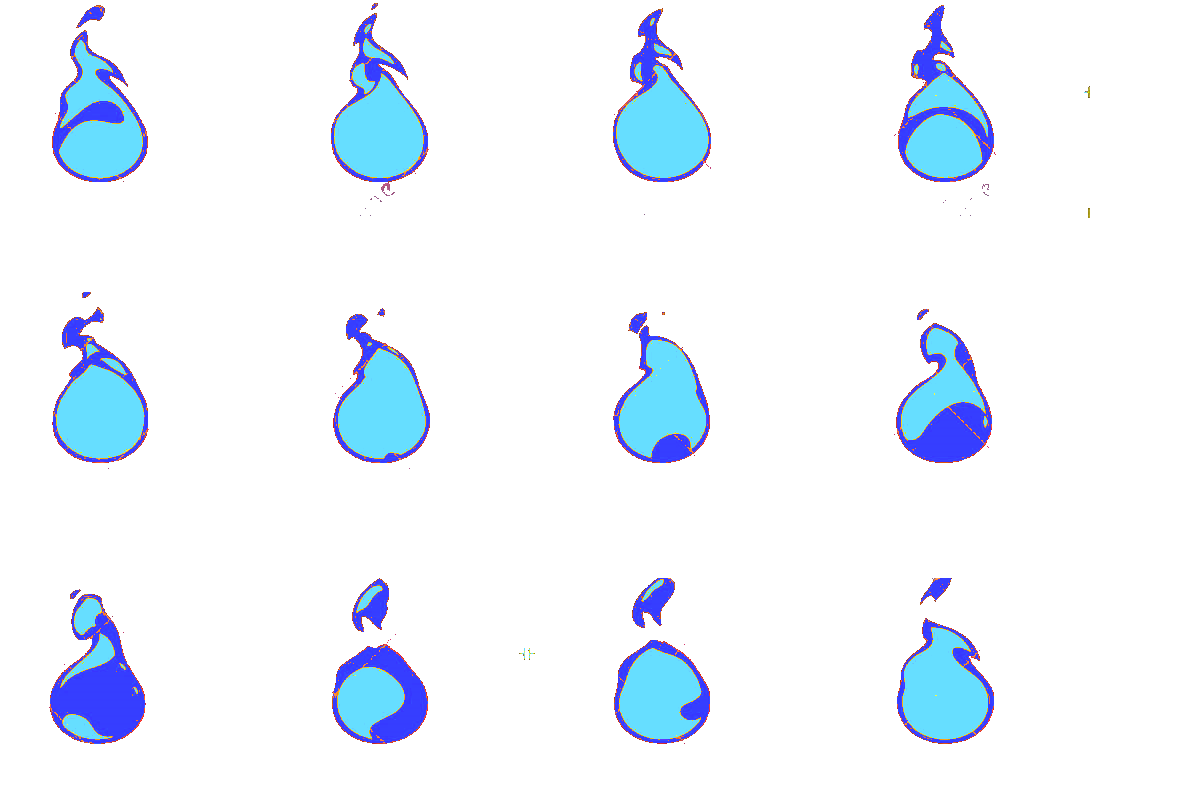
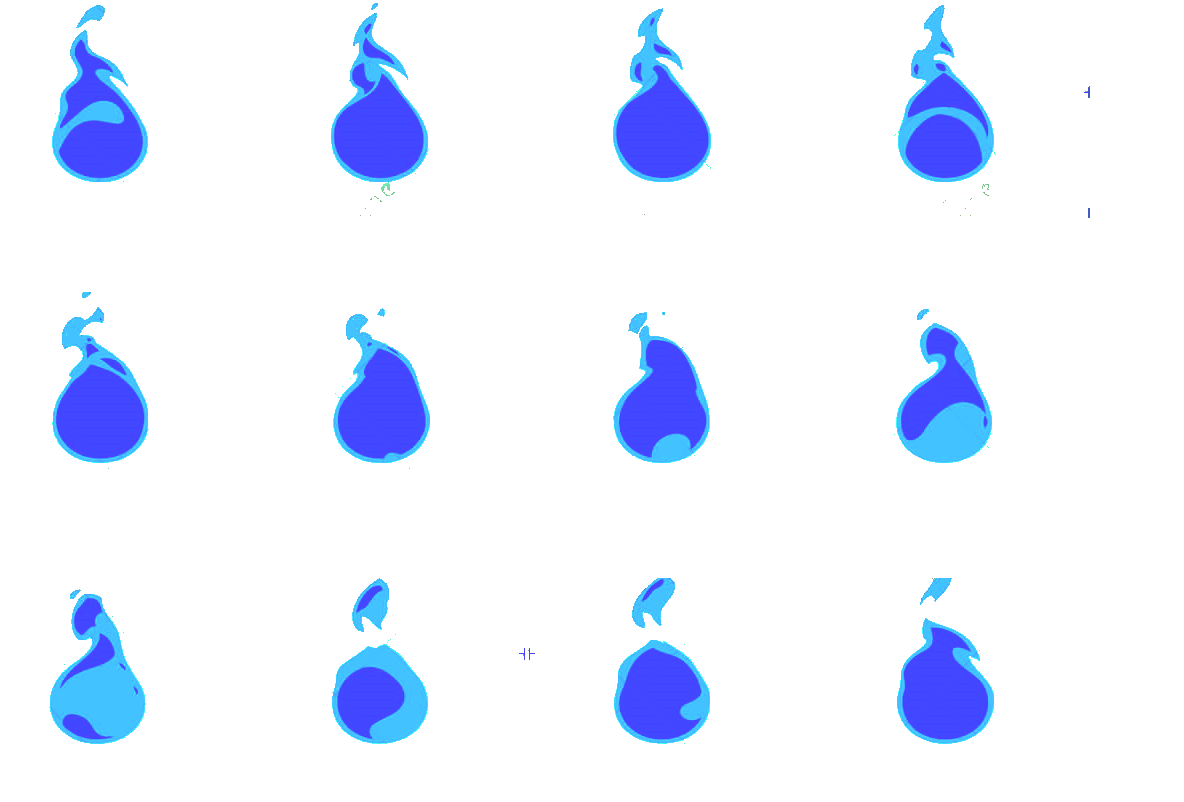
fix flame combo

diff --git a/Classes/ComboScore.cpp b/Classes/ComboScore.cpp
@@ -71,12 +71,11 @@ void ComboScore::UpdateCombo()
 
 void ComboScore::ResetCombo()
 {
-	/*if (_mySonic->isBlueToRed)
+	if (_mySonic->isRed)
 	{
 		_mySonic->SwapAllAni();
-		_mySonic->isRedToBlue = true;
-		_mySonic->isBlueToRed = false;
-	}*/
+		_mySonic->isRed = false;
+	}
 
 	_label->stopAllActions();
 	_label->setVisible(false);
@@ -194,7 +193,6 @@ void ComboScore::update(float dt)
 		else
 		{
 			UpdateCombo();
-
 			
 			if (combo < 5) flame->setVisible(false);
 			else flame->setVisible(true);
@@ -208,11 +206,17 @@ void ComboScore::update(float dt)
 				flame->stopAllActions();
 				flame->runAction(RepeatForever::create(flame_Ani->get()));
 			}
-			else if (combo > 15 && _pre_combo <= 15)
+			else if (combo > 15 && _pre_combo <= 20 && _pre_combo <= 15)
+			{
+				flame->stopAllActions();
+				flame_Ani = new RefPtr<Animate>(Animate::create(Animation::createWithSpriteFrames(flame_FL, 0.04f)));
+			//	flame_Ani->get()->getAnimation()->setsetDelayPerUnit(0.02f);
+				flame->runAction(RepeatForever::create(flame_Ani->get()));
+			}
+			else if (combo > 20 && _pre_combo <= 20)
 			{
 				flame->stopAllActions();
 				flame_Ani = new RefPtr<Animate>(Animate::create(Animation::createWithSpriteFrames(flame_FL, 0.02f)));
-			//	flame_Ani->get()->getAnimation()->setsetDelayPerUnit(0.02f);
 				flame->runAction(RepeatForever::create(flame_Ani->get()));
 			}
 			

diff --git a/Classes/Sonic.h b/Classes/Sonic.h
@@ -53,7 +53,7 @@ public:
 	int ringCollected = 0; //Count rings Sonic collected
 	int baseLife = 2; //Count the number of your dropping rings (drop ring 3 times you die)
 	int countCombo = 0; //Count the combo tap button, no missing
-	bool isBlueToRed = false, isRedToBlue = false;
+	bool isRed = false;
 
 	void SwapAni(RefPtr<Animate> *&blue, RefPtr<Animate> *&red); //Swap red and blue Sonic
 	void SwapAllAni();

diff --git a/Classes/Sonic.cpp b/Classes/Sonic.cpp
@@ -112,11 +112,10 @@ void Sonic::update(float dt)
 
 		if (countCombo >= 10 && countCombo < 15)
 		{
-			if (!isBlueToRed)
+			if (!isRed)
 			{
 				SwapAllAni();
-				isBlueToRed = true;
-				isRedToBlue = false;
+				isRed = true;
 			}
 		}
 		else if (countCombo >= 15)
